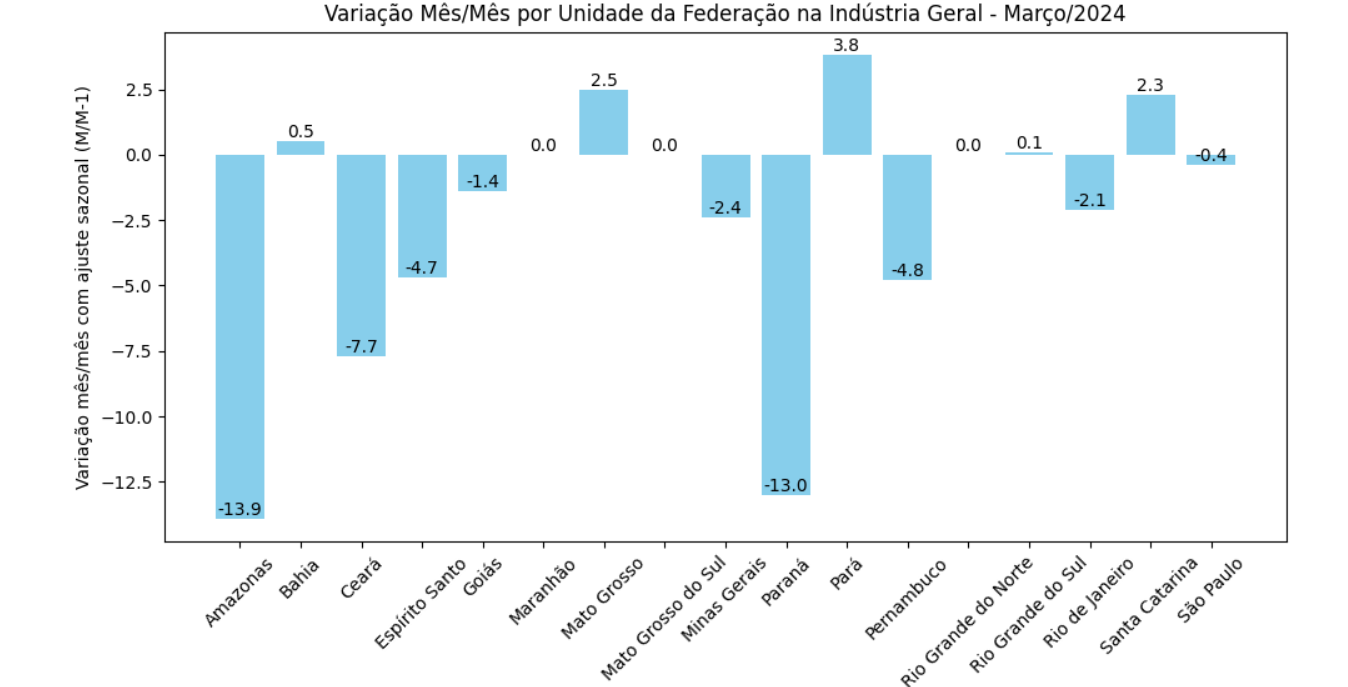
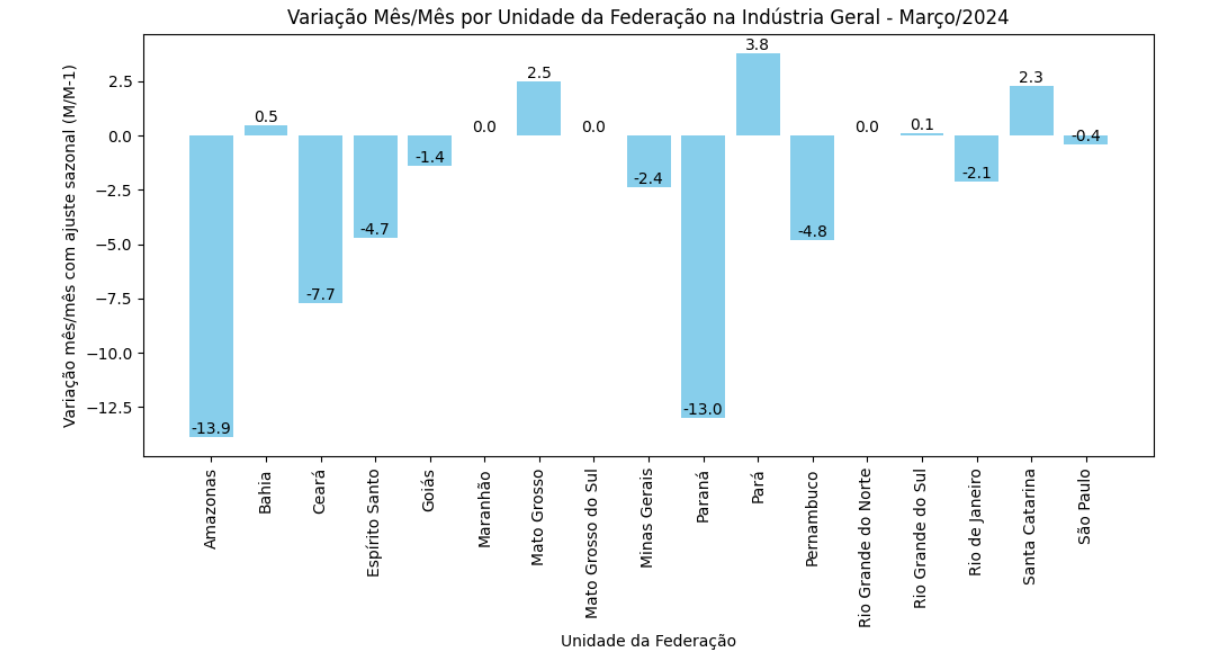
Atualizando imagens e readme

diff --git a/README.md b/README.md
@@ -21,7 +21,7 @@ A API é fornecida pelo Instituto Brasileiro de Geografia e Estatística (IBGE) 
 
 Informações sobre o sidra: https://sidra.ibge.gov.br/ajuda
 ## 3. Tabela Estatística
-A escolha da tabela foi a Pesquisa Industrial Mensal - Produção Física (PIMPF), ela produz indicadores de curto prazo relativos ao comportamento do produto real da indústria, tendo como unidade de investigação a empresa formalmente constituída cuja principal fonte de receita seja a atividade industrial.
+A escolha da tabela foi a Pesquisa Industrial Mensal - Produção Física (PIMPF), ela produz indicadores de curto prazo relativos ao comportamento do produto real da indústria, tendo como unidade de investigação a empresa formalmente constituída cuja principal fonte de receita seja a atividade industrial. A Pesquisa não apresenta dados de todos os Estados do Brasil.
 
 Link da tabela: https://sidra.ibge.gov.br/tabela/8888
 
@@ -145,13 +145,15 @@ for bar in bars:
     plt.text(bar.get_x() + bar.get_width()/2, yval, yval, ha='center', va='bottom')
 
 # Mostrar o gráfico
-plt.xticks(rotation=45)  # Rotaciona os rótulos do eixo x para melhorar a legibilidade
+plt.xticks(rotation=90)  # Rotaciona os rótulos do eixo x para melhorar a legibilidade
 plt.tight_layout()  # Ajusta o layout para evitar sobreposição de elementos
 plt.show()
 ```
 ![alt text](./Imagens/image-4.png)
 
-Estado do Pará, seguido de Maranhão e Rio de Janeiro foram os estados com maior crescimento industrial com relação ao mês anterior.
+Estado do Pará, seguido de Mata Grosso e Rio de Janeiro foram os estados com maior crescimento industrial com relação ao mês anterior.
+Em relação a fevereiro, março apresentou o maior retrocesso na Amazônia e no Paraná , com -13,9 e -13,0, respectivamente.
+Outrossim, Maranhão, Mato Grosso do Sul e Rio Grande do Norte apresentaram resultados sem alteração na comparação ao mês anterior
 
 ## 7. Gerando gráficos para análises - Variação Anual Acumulada
 
@@ -217,17 +219,10 @@ plt.title('Mapa de Calor - Variação Acumulada em 12 meses por CNAE e UF')
 # Ajustando os ticks
 plt.xticks(ticks=np.arange(heatmap_data.columns.size), labels=heatmap_data.columns, rotation=90)
 plt.yticks(ticks=np.arange(heatmap_data.index.size), labels=heatmap_data.index)
-
-# Adicionando anotações (valores) nas células
-# for i in range(heatmap_data.shape[0]):
-#     for j in range(heatmap_data.shape[1]):
-#         value = heatmap_data.iloc[i, j]
-#         if not np.isnan(value):
-#             plt.text(j, i, f'{value:.2f}', ha='center', va='center', color='white')
-
 plt.tight_layout()
 plt.show()
 ```
 ![alt text](./Imagens/image-6.png)
 
-Estado que mais teve maior variação foi Pernambuco com 3.30 Fabricação de outros equipamentos de transporte, exceto veículos automotores.
+O estado de Pernambuco foi o destaque dentro dos setores, apresentando maior variação na CNAE "3.30 Fabricação de outros equipamentos de transporte, exceto veículos automotores".
+Entretanto, no Pará, constata-se que a CNAE "3.17 Fabricação de celulosa, papel e produtos de papel" é a menor variação acumulada nos últimos 12 meses.
